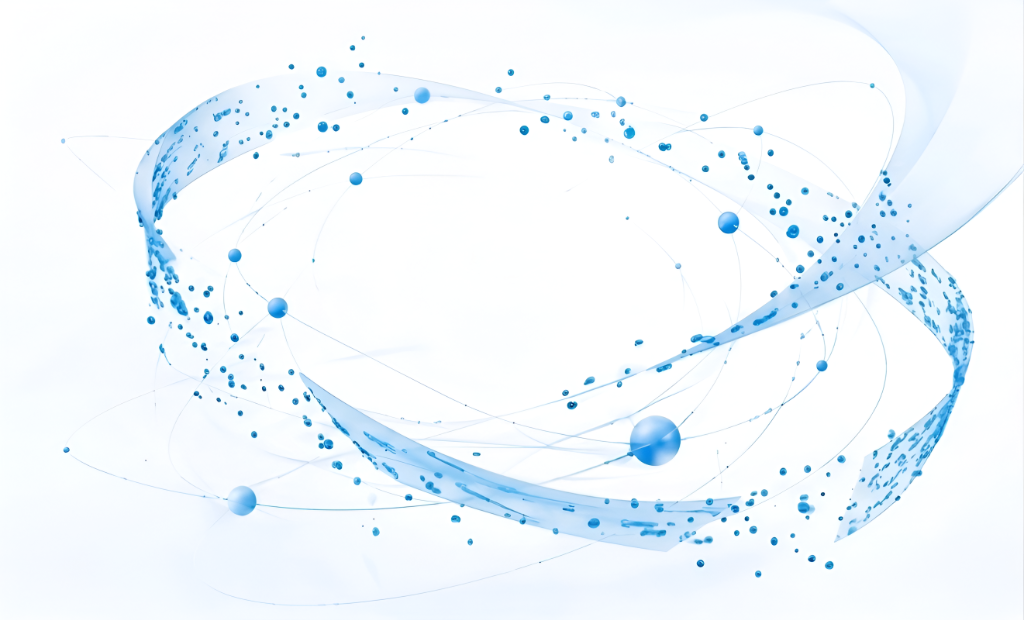
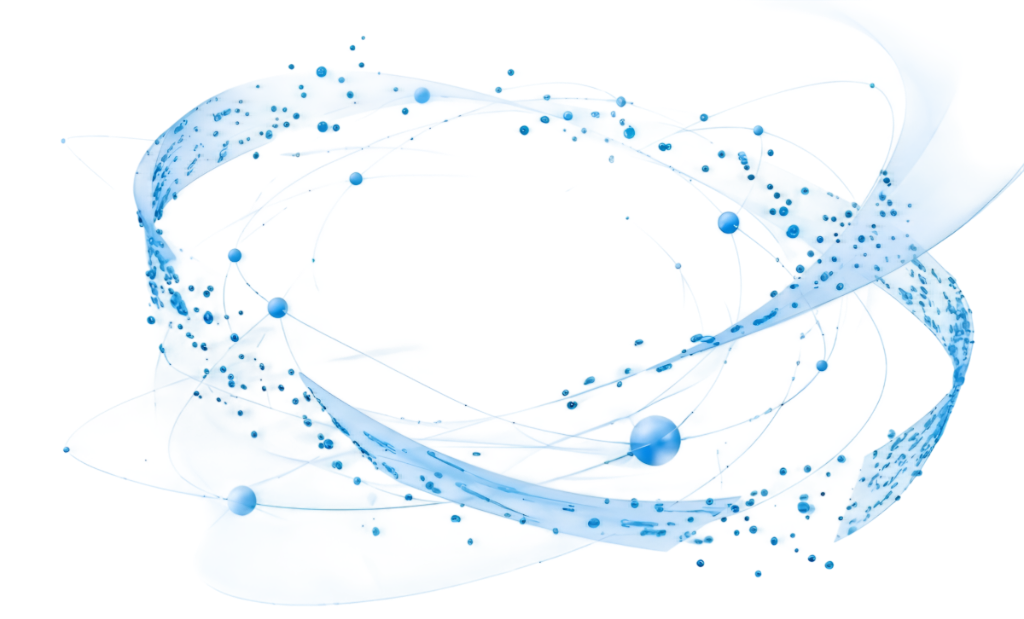
fix(projects): use exact uploaded artwork without overlays or shifts

diff --git a/src/components/sections/ProjectsGrid.tsx b/src/components/sections/ProjectsGrid.tsx
@@ -209,8 +209,8 @@ export const ProjectsGrid: React.FC = () => {
             </motion.div>
           </div>
 
-          {/* Right Column: Exact Artwork (High-Res Swirling Ribbon with Centered CIS Emblem) */}
-          <div className="lg:col-span-7 relative flex items-center justify-center min-h-[320px] sm:min-h-[420px] lg:min-h-[500px]">
+          {/* Right Column: Exact Artwork (High-Res Swirling Ribbon with Orbital Constellation) */}
+          <div className="lg:col-span-7 relative flex items-center justify-center min-h-[300px] sm:min-h-[400px] lg:min-h-[480px]">
             <motion.div
               animate={{
                 y: [-6, 6, -6],
@@ -232,28 +232,6 @@ export const ProjectsGrid: React.FC = () => {
                 alt="IEEE CIS Swirling Ribbon & Orbital Constellation"
                 className="w-full h-full object-contain pointer-events-none select-none relative z-10 filter drop-shadow-[0_16px_40px_rgba(2,132,199,0.18)]"
               />
-
-              {/* Centered IEEE CIS Fluid Emblem inside the Open Loop */}
-              <div className="absolute inset-0 flex items-center justify-center pointer-events-none z-20">
-                <motion.div
-                  initial={{ scale: 0.85, opacity: 0 }}
-                  animate={{ scale: 1, opacity: 1 }}
-                  transition={{ duration: 0.8, delay: 0.15 }}
-                  className="relative flex items-center justify-center -translate-x-[4%] -translate-y-[2%]"
-                >
-                  {/* Subtle emblem back aura */}
-                  <div className="absolute w-24 h-24 sm:w-32 sm:h-32 rounded-full bg-[#0284C7]/20 blur-xl pointer-events-none" />
-
-                  {/* Logo Emblem centered inside the open orbital loop */}
-                  <div className="relative w-16 h-16 sm:w-22 sm:h-22 md:w-26 md:h-26 flex items-center justify-center">
-                    <img
-                      src="/logo-mark.png"
-                      alt="IEEE CIS Emblem"
-                      className="w-full h-full object-contain filter drop-shadow-[0_6px_22px_rgba(2,132,199,0.45)]"
-                    />
-                  </div>
-                </motion.div>
-              </div>
             </motion.div>
           </div>
         </div>
